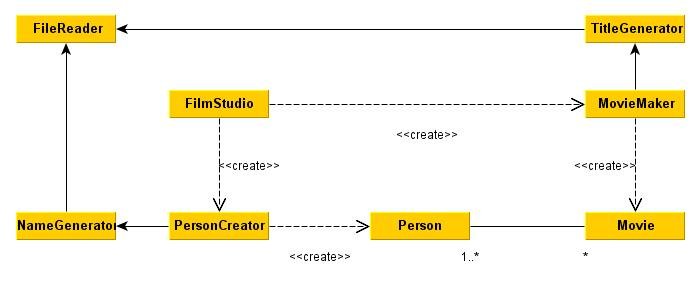
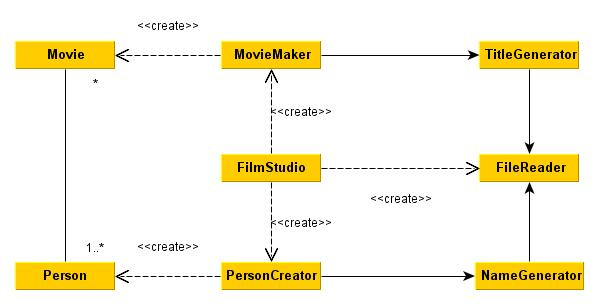
deadline 2 valmis

diff --git a/FilmStudio/test/filmstudio/movies/MovieMakerTest.java b/FilmStudio/test/filmstudio/movies/MovieMakerTest.java
@@ -1,7 +1,9 @@
 
 package filmstudio.movies;
 
+import filmstudio.utilities.FileReader;
 import java.util.Calendar;
+import java.util.Random;
 import org.junit.Before;
 import org.junit.Test;
 import static org.junit.Assert.*;
@@ -9,13 +11,17 @@ import static org.junit.Assert.*;
 
 public class MovieMakerTest {
     
+    FileReader fileReader;
     MovieMaker movieMaker;
-    Movie random;
+    Movie randomMovie;
+    Random random;
 
     @Before
-    public void setUp() {
-        movieMaker = new MovieMaker();
-        random = movieMaker.newRandom();
+    public void setUp() throws Exception {
+        this.fileReader = new FileReader();
+        this.random = new Random(1);
+        movieMaker = new MovieMaker(fileReader, random);
+        randomMovie = movieMaker.newRandom();
     }
     
     @Test
@@ -31,23 +37,23 @@ public class MovieMakerTest {
     }
     
     @Test
-    public void randomMovieTitleNotNull(){ 
-        assertNotNull(random.getTitle());
+    public void randomMovieTitleCorrectlyGenerated(){ 
+        assertEquals("Hard Battle", randomMovie.getTitle());
     }
     
     @Test
-    public void randomMovieGenreNotNull(){
-        assertNotNull(random.getGenre());
+    public void randomMovieGenreCorrectlyGenerated(){
+        assertEquals("Action", randomMovie.getGenre());
     }
     
     @Test
-    public void randomMovieYearOver1950(){
-        assertTrue(random.getYear() >= 1950);
+    public void randomMovieYearCorrectlyGenerated(){
+        assertEquals(1967, randomMovie.getYear());
     }
     
     @Test
-    public void randomMovieRatingsGreaterThanZeroAndNotOver10(){
-        assertTrue(random.getRatings() <= 10 && random.getRatings() > 0);
+    public void randomMovieRatingsCorrectlyGenerated(){
+        assertEquals(2.4, randomMovie.getRatings(), 0);
     }
 
 }

diff --git a/FilmStudio/src/filmstudio/movies/MovieMaker.java b/FilmStudio/src/filmstudio/movies/MovieMaker.java
@@ -1,19 +1,22 @@
 package filmstudio.movies;
 
+import filmstudio.utilities.FileReader;
 import java.util.Calendar;
+import java.util.List;
 import java.util.Random;
 
 public class MovieMaker {
 
     private int currentYear;
-    private String[] genres = {"Action", "Comedy"};
+    private List<String> genres;
     private TitleGenerator titleGenerator;
     private Random random;
 
-    public MovieMaker() {
+    public MovieMaker(FileReader fileReader, Random random) throws Exception {
         this.currentYear = Calendar.getInstance().get(Calendar.YEAR);
-        titleGenerator = new TitleGenerator();
-        random = new Random();
+        this.random = random;
+        this.genres = fileReader.readFile("src/filmstudio/movies/genres.txt");       
+        titleGenerator = new TitleGenerator(fileReader, random);
     }
     
     public int getCurrentYear(){
@@ -24,7 +27,7 @@ public class MovieMaker {
         this.currentYear++;
     }
 
-    public Movie newRandom() {
+    public Movie newRandom() throws Exception {
 
         int year = year();
         String genre = genre();
@@ -34,7 +37,7 @@ public class MovieMaker {
         return new Movie(title, year, genre, ratings);
     }
 
-    private String generateTitle(String genre) {
+    private String generateTitle(String genre) throws Exception {
         return titleGenerator.generateTitle("src/filmstudio/movies/" + genre + "_adjectives.txt",
                                             "src/filmstudio/movies/" + genre + "_nouns.txt");
     }
@@ -44,7 +47,7 @@ public class MovieMaker {
     }
 
     private String genre() {
-        return genres[random.nextInt(genres.length)];
+        return genres.get(random.nextInt(genres.size()));
     }
 
     private double ratings() {

diff --git a/FilmStudio/test/filmstudio/movies/TitleGeneratorTest.java b/FilmStudio/test/filmstudio/movies/TitleGeneratorTest.java
@@ -1,6 +1,8 @@
 
 package filmstudio.movies;
 
+import filmstudio.utilities.FileReader;
+import java.util.Random;
 import org.junit.Before;
 import org.junit.Test;
 import static org.junit.Assert.*;
@@ -9,18 +11,34 @@ import static org.junit.Assert.*;
 public class TitleGeneratorTest {
     
     TitleGenerator titleGenerator;
+    FileReader fileReader;
+    Random random;
     
     @Before
     public void setUp() {
-        titleGenerator = new TitleGenerator();
+        fileReader = new FileReader();
+        random = new Random(1);
+        titleGenerator = new TitleGenerator(fileReader, random);
     }
     
     @Test
-    public void titleGeneratedCorrectly(){
+    public void title1GeneratedCorrectly() throws Exception {
         String title = titleGenerator.generateTitle("test/filmstudio/movies/test-adjective.txt", 
                                                     "test/filmstudio/movies/test-noun.txt");
         
-        assertTrue(title.equals("adjective noun") || title.equals("The noun"));
+        assertEquals("adjective noun", title);
+    }
+    
+    @Test
+    public void title2GeneratedCorrectly() throws Exception {
+        for(int i = 0; i < 13; i++){
+            random.nextInt();
+        }
+        
+        String title = titleGenerator.generateTitle("test/filmstudio/movies/test-adjective.txt", 
+                                                    "test/filmstudio/movies/test-noun.txt");
+        
+        assertEquals("The noun", title);
     }
 
 }

diff --git a/FilmStudio/src/filmstudio/FilmStudio.java b/FilmStudio/src/filmstudio/FilmStudio.java
@@ -1,28 +1,37 @@
-
 package filmstudio;
 
 import filmstudio.movies.Movie;
 import filmstudio.movies.MovieMaker;
+import filmstudio.utilities.FileReader;
 import java.util.ArrayList;
 import java.util.List;
+import java.util.Random;
 
 public class FilmStudio {
 
     public static void main(String[] args) {
-        
-        MovieMaker movieMaker = new MovieMaker();
-        
+
+        Random random = new Random();
+        FileReader fileReader = new FileReader();
+
         List<Movie> movies = new ArrayList<Movie>();
-        for(int i = 0; i<9; i++){
-            Movie random = movieMaker.newRandom();
-            movies.add(random);
+
+        try {
+            MovieMaker movieMaker = new MovieMaker(fileReader, random);
+
+            for (int i = 0; i < 9; i++) {
+                Movie randomMovie = movieMaker.newRandom();
+                movies.add(randomMovie);
+            }
+        } catch (Exception e) {
+            System.out.println("Error: " + e.getMessage());
         }
 
         movies.add(new Movie("Bad Grandpa", 2013, "Comedy", 7.0));
-        
-        for(Movie movie : movies){
+
+        for (Movie movie : movies) {
             System.out.println(movie);
         }
-        
+
     }
 }

diff --git a/FilmStudio/src/filmstudio/utilities/FileReader.java b/FilmStudio/src/filmstudio/utilities/FileReader.java
@@ -1,4 +1,3 @@
-
 package filmstudio.utilities;
 
 import java.io.File;
@@ -6,34 +5,25 @@ import java.util.ArrayList;
 import java.util.List;
 import java.util.Scanner;
 
-
 public class FileReader {
-    
-    public FileReader(){
+
+    public FileReader() {
     }
-    
-    public List<String> readFile(String path){
-        
+
+    public List<String> readFile(String path) throws Exception {
+
         File file = new File(path);
         List<String> lines = new ArrayList<String>();
-        
-        try{
-            Scanner reader = new Scanner(file);
-            
-            while (reader.hasNextLine()) {
-                String line = reader.nextLine();
-                lines.add(line);
-            }
-            
-            reader.close();
-            
+
+        Scanner reader = new Scanner(file);
+
+        while (reader.hasNextLine()) {
+            String line = reader.nextLine();
+            lines.add(line);
         }
-        catch (Exception e){
-            System.out.println("Error: " + e.getMessage());
-            System.exit(1);
-        }
-        
+
+        reader.close();
+
         return lines;
     }
-
 }

diff --git a/FilmStudio/test/filmstudio/utilities/FileReaderTest.java b/FilmStudio/test/filmstudio/utilities/FileReaderTest.java
@@ -1,29 +1,30 @@
-
 package filmstudio.utilities;
-
 
 import java.util.List;
 import org.junit.Before;
 import org.junit.Test;
 import static org.junit.Assert.*;
 
-
 public class FileReaderTest {
-    
+
     FileReader fileReader;
-    
+
     @Before
     public void setUp() {
         fileReader = new FileReader();
     }
-    
+
+    @Test (expected = Exception.class)
+    public void fileNotFoundThrowsException() throws Exception {
+        List<String> lines = fileReader.readFile("test/filmstudio/utilities/notfound.txt");
+    }
+
     @Test
-    public void linesReadMatchTheContent(){
+    public void linesReadMatchTheContent() throws Exception {
         List<String> lines = fileReader.readFile("test/filmstudio/utilities/test.txt");
-        
+
         assertEquals("first", lines.get(0));
         assertEquals("second", lines.get(1));
         assertEquals("third", lines.get(2));
     }
-
 }

diff --git a/FilmStudio/src/filmstudio/movies/TitleGenerator.java b/FilmStudio/src/filmstudio/movies/TitleGenerator.java
@@ -9,12 +9,12 @@ public class TitleGenerator {
     private Random random;
     private FileReader fileReader;
 
-    public TitleGenerator() {
-        random = new Random();
-        fileReader = new FileReader();
+    public TitleGenerator(FileReader fileReader, Random random) {
+        this.fileReader = fileReader;
+        this.random = random;
     }
 
-    public String generateTitle(String adjectivesPath, String nounsPath) {
+    public String generateTitle(String adjectivesPath, String nounsPath) throws Exception {
         String title = "";
 
         List<String> adjectiveList = fileReader.readFile(adjectivesPath);
